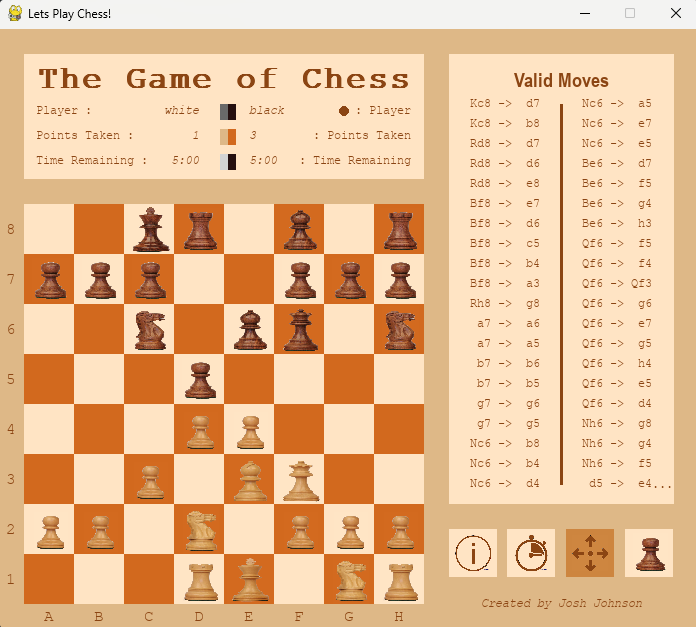
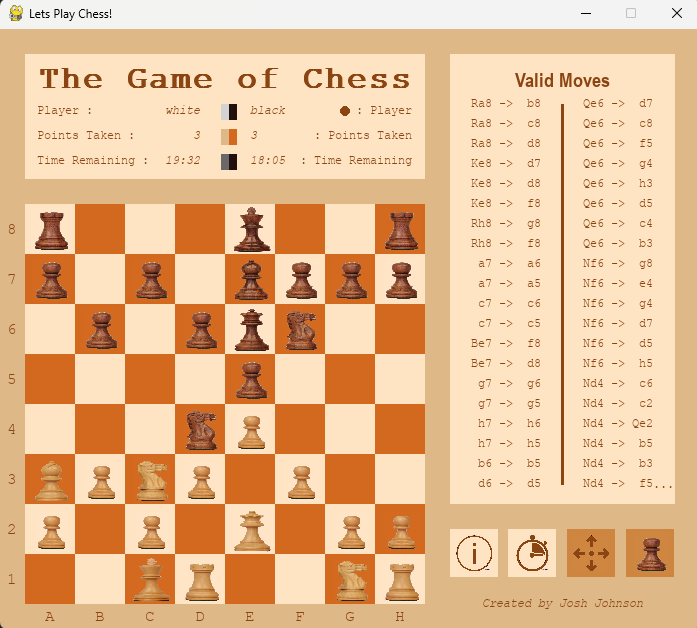
Update project images

diff --git a/Chess/README.md b/Chess/README.md
@@ -47,8 +47,11 @@
 **Help Menu**<br>
 <img width="400" height="400" alt="Help Menu" src="Project_Images/Help_Menu.png">
 
-**Valid Menu**<br>
-<img width="400" height="400" alt="Valid Menu" src="Project_Images/Valid_Moves.png">
+**Valid Moves**<br>
+<img width="400" height="400" alt="Valid Moves" src="Project_Images/Valid_Moves.png">
+
+**Game Clock**<br>
+<img width="400" height="400" alt="Game Clock" src="Project_Images/Game_Clock.png">
 </div>
 
 <!-- footer section -->
